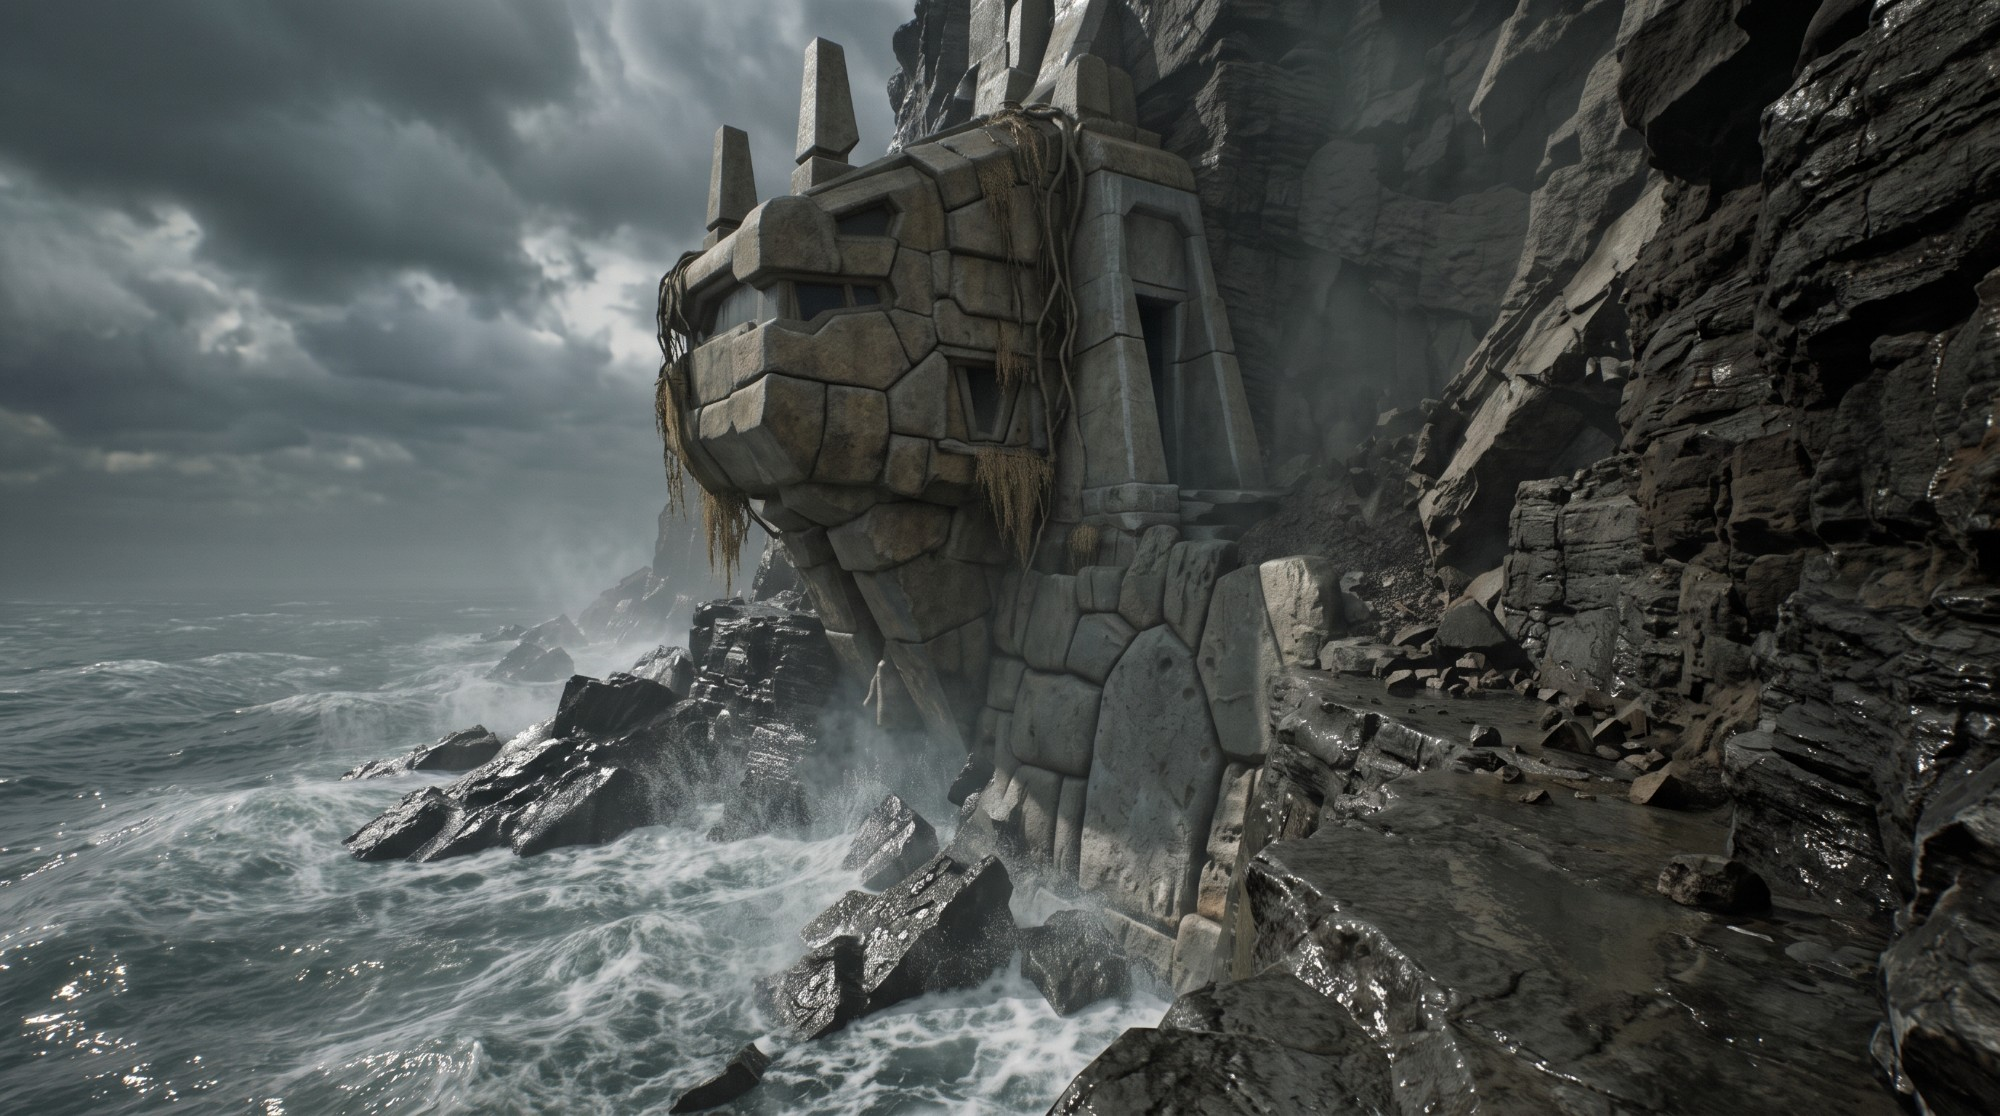
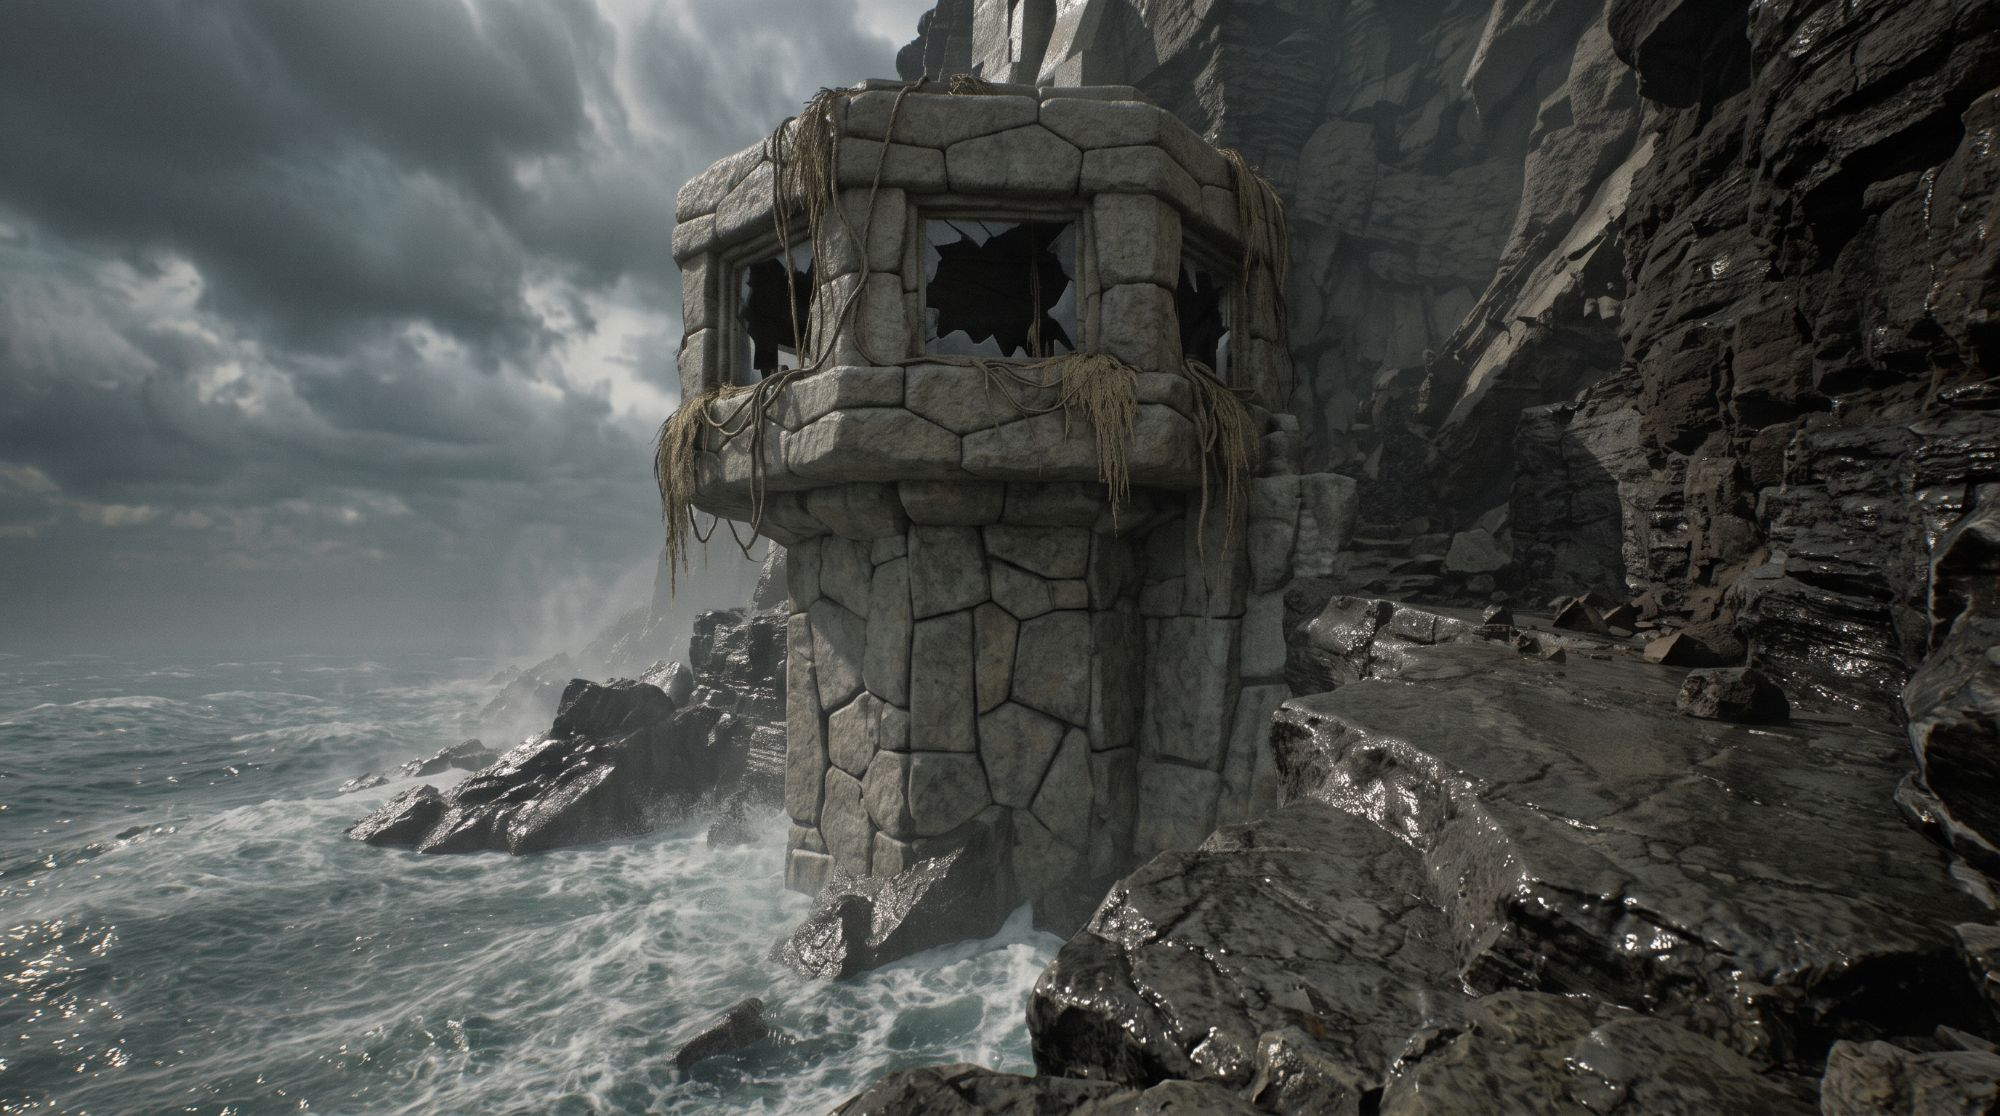
Keep SNARK-9's caption on skip, add his chat history, new Crag and Balcony art
- Space now only stops SNARK-9's voice; his caption stays (and appears
  if he was skipped before his audio started).
- A button on SNARK-9's bar opens his comments as a scrollable chat:
  the player's commands on the right, his quips on the left. Quips are
  added when shown, so lines cut off before being spoken don't appear.
- Balcony art, and a replacement for the Crag.

diff --git a/Sources/Planetfall/SidekickBar.swift b/Sources/Planetfall/SidekickBar.swift
@@ -11,6 +11,8 @@ struct SidekickBar: View {
     /// Big enough to make out SNARK-9's face, like a streamer's facecam.
     static let avatarSize: CGFloat = 80
 
+    @State private var showingChat = false
+
     var body: some View {
         // Centered so the caption sits beside the avatar's face rather than its top edge.
         HStack(alignment: .center, spacing: 16) {
@@ -28,6 +30,19 @@ struct SidekickBar: View {
                     .textSelection(.enabled)
             }
             Spacer(minLength: 0)
+            Button { showingChat.toggle() } label: {
+                Image(systemName: "bubble.left.and.text.bubble.right")
+                    .font(.system(size: 18))
+                    .foregroundStyle(Theme.accent)
+                    .padding(6)
+                    .contentShape(Rectangle())
+            }
+            .buttonStyle(.plain)
+            .help("Show \(sidekick.persona.name)'s earlier comments")
+            .accessibilityLabel("\(sidekick.persona.name)'s comments")
+            .popover(isPresented: $showingChat, arrowEdge: .top) {
+                SidekickChatView(sidekick: sidekick)
+            }
         }
         .padding(.horizontal, 16)
         .padding(.vertical, 12)
@@ -80,5 +95,84 @@ struct SidekickBar: View {
         .animation(sidekick.isThinking ? .easeInOut(duration: 0.6).repeatForever() : .default,
                    value: sidekick.isThinking)
         .accessibilityLabel(sidekick.persona.name)
+    }
+}
+
+/// SNARK-9's earlier comments as a chat: the player's commands on the right, SNARK-9's quips
+/// on the left, oldest at the top. Opens scrolled to the latest.
+struct SidekickChatView: View {
+    let sidekick: Sidekick
+
+    var body: some View {
+        VStack(spacing: 0) {
+            Text(verbatim: "\(sidekick.persona.name)'s commentary")
+                .font(.system(size: 13, weight: .bold, design: .monospaced))
+                .foregroundStyle(Theme.accent)
+                .padding(.vertical, 10)
+            Divider()
+            if sidekick.chat.isEmpty {
+                Text(verbatim: "Nothing yet. Make a move.")
+                    .font(.system(size: 13, design: .monospaced))
+                    .foregroundStyle(Theme.dim)
+                    .frame(maxWidth: .infinity, maxHeight: .infinity)
+            } else {
+                ScrollViewReader { proxy in
+                    ScrollView {
+                        LazyVStack(spacing: 10) {
+                            ForEach(sidekick.chat) { entry in
+                                ChatBubble(entry: entry, avatar: Artwork.character(sidekick.persona.artID))
+                                    .id(entry.id)
+                            }
+                        }
+                        .padding(14)
+                    }
+                    .defaultScrollAnchor(.bottom)
+                    .onAppear { proxy.scrollTo(sidekick.chat.last?.id, anchor: .bottom) }
+                    .onChange(of: sidekick.chat.last?.id) { _, last in
+                        withAnimation { proxy.scrollTo(last, anchor: .bottom) }
+                    }
+                }
+            }
+        }
+        .frame(width: 440, height: 520)
+        .background(Theme.background)
+        .preferredColorScheme(.dark)
+    }
+}
+
+private struct ChatBubble: View {
+    let entry: SidekickChatEntry
+    let avatar: NSImage?
+
+    var body: some View {
+        HStack(alignment: .bottom, spacing: 8) {
+            if entry.speaker == .player {
+                Spacer(minLength: 60)
+                bubble
+            } else {
+                Group {
+                    if let avatar {
+                        Image(nsImage: avatar).resizable().aspectRatio(contentMode: .fill)
+                    } else {
+                        Theme.accent
+                    }
+                }
+                .frame(width: 26, height: 26)
+                .clipShape(Circle())
+                bubble
+                Spacer(minLength: 60)
+            }
+        }
+    }
+
+    private var bubble: some View {
+        Text(verbatim: entry.speaker == .player ? "> \(entry.text)" : entry.text)
+            .font(.system(size: 13, design: .monospaced))
+            .foregroundStyle(entry.speaker == .player ? Theme.background : Theme.text)
+            .textSelection(.enabled)
+            .padding(.horizontal, 12)
+            .padding(.vertical, 8)
+            .background(RoundedRectangle(cornerRadius: 12)
+                .fill(entry.speaker == .player ? Theme.accent : Color.white.opacity(0.08)))
     }
 }

diff --git a/Sources/PlanetfallEngine/Sidekick.swift b/Sources/PlanetfallEngine/Sidekick.swift
@@ -1,6 +1,14 @@
 import Foundation
 import Observation
 
+/// One line in the chat history: something the player typed, or something SNARK-9 said.
+public struct SidekickChatEntry: Identifiable, Equatable, Sendable {
+    public enum Speaker: Sendable { case player, sidekick }
+    public let id: Int
+    public let speaker: Speaker
+    public let text: String
+}
+
 /// The let's-play sidekick: watches the game and streams a quip from Claude after the
 /// player's turns. Observe `line` for the caption; add a handler with `onLineFinished` to
 /// speak it (e.g. Fish TTS in the sidekick's own voice).
@@ -11,6 +19,9 @@ public final class Sidekick {
     /// The caption: the quip being spoken (or, with no voice, as it streams in). Blank while
     /// SNARK-9 is waiting, thinking, or passing, and from the moment the player sends a command.
     public private(set) var line = ""
+    /// The game so far as a chat: the player's commands and SNARK-9's quips, oldest first.
+    /// Quips are added when they're shown, so ones cut off before being spoken don't appear.
+    public private(set) var chat: [SidekickChatEntry] = []
     /// True while Claude is writing a quip.
     public private(set) var isThinking = false
     /// The last error, shown in place of a quip; cleared by the next successful one.
@@ -44,6 +55,7 @@ public final class Sidekick {
     /// Achievements earned since the last quip was requested, to be awarded in the next one.
     @ObservationIgnored private var pendingAwards: [Achievement] = []
     @ObservationIgnored private var finishedHandlers: [(String) -> Void] = []
+    @ObservationIgnored private var nextChatID = 0
 
     private static let enabledKey = "sidekickEnabled"
     private static let maxPreviousLines = 8
@@ -68,10 +80,11 @@ public final class Sidekick {
                 // Skip mid-command questions like the save filename prompt.
                 guard turn.prompt == .command else { return }
                 self.turnFinished()
-            case .command:
+            case .command(let command):
                 // The player moved on: drop any quip in progress and clear the caption.
                 self.cancel(keepingAwards: true)
                 self.line = ""
+                self.addToChat(.player, command)
             case .ended:
                 self.cancel(keepingAwards: false)
                 self.line = ""
@@ -88,13 +101,15 @@ public final class Sidekick {
     public func revealCaption() {
         guard let pendingCaption else { return }
         line = pendingCaption
+        addToChat(.sidekick, pendingCaption)
         self.pendingCaption = nil
     }
 
-    /// Hides the caption (the player skipped SNARK-9's line).
-    public func dismissCaption() {
-        line = ""
-        pendingCaption = nil
+    private func addToChat(_ speaker: SidekickChatEntry.Speaker, _ text: String) {
+        let text = text.trimmingCharacters(in: .whitespacesAndNewlines)
+        guard !text.isEmpty else { return }
+        chat.append(SidekickChatEntry(id: nextChatID, speaker: speaker, text: text))
+        nextChatID += 1
     }
 
     private func turnFinished() {
@@ -161,6 +176,7 @@ public final class Sidekick {
                 pendingCaption = caption
             } else {
                 line = caption
+                addToChat(.sidekick, caption)
             }
             for handler in finishedHandlers { handler(text) }
         }
@@ -180,5 +196,6 @@ public final class Sidekick {
         line = ""
         errorMessage = nil
         previousLines = []
+        chat = []
     }
 }

diff --git a/Sources/Planetfall/VoiceDirector.swift b/Sources/Planetfall/VoiceDirector.swift
@@ -186,7 +186,9 @@ final class VoiceDirector {
             skippedID = id
             current?.cancel()
         }
-        if roles[id] == .sidekick { sidekick?.dismissCaption() }
+        // Skipping SNARK-9 only stops his voice; his caption stays (or appears, if he was
+        // skipped before his audio started).
+        if roles[id] == .sidekick { sidekick?.revealCaption() }
         return true
     }
 
@@ -195,7 +197,11 @@ final class VoiceDirector {
         Task { [weak self] in
             let deadline = ContinuousClock.now + .seconds(60)
             while ContinuousClock.now < deadline {
-                guard let self, self.generation == generation, self.skippedID != id else { return }
+                guard let self, self.generation == generation else { return }
+                if self.skippedID == id {
+                    self.sidekick?.revealCaption()
+                    return
+                }
                 if let audible = self.player.audibleSegment, audible >= id {
                     if audible == id { self.sidekick?.revealCaption() }
                     return

diff --git a/Tests/PlanetfallEngineTests/SidekickTimingTests.swift b/Tests/PlanetfallEngineTests/SidekickTimingTests.swift
@@ -64,6 +64,9 @@ struct SidekickTimingTests {
         try await Task.sleep(for: .milliseconds(900))
         #expect(stub.requestCount == 2)
         #expect(sidekick.line.isEmpty)  // SNARK-9 passed, so the caption stays blank
+        // The chat has both commands but only the quip SNARK-9 actually said.
+        #expect(sidekick.chat.map(\.speaker) == [.player, .sidekick, .player])
+        #expect(sidekick.chat.map(\.text) == ["wait", "Riveting.", "wait"])
     }
 
     @Test func withAVoiceTheCaptionWaitsForSpeechAndTheRequestWaitsForNarration() async throws {
@@ -88,7 +91,9 @@ struct SidekickTimingTests {
         #expect(stub.requestCount == 1)
         #expect(spoken == ["[deadpan] Riveting."])  // the voice gets the tag
         #expect(sidekick.line.isEmpty)  // but the caption waits for the voice to start
+        #expect(sidekick.chat.map(\.text) == ["wait"])  // and so does its place in the chat
         sidekick.revealCaption()
         #expect(sidekick.line == "Riveting.")
+        #expect(sidekick.chat.map(\.text) == ["wait", "Riveting."])
     }
 }

diff --git a/README.md b/README.md
@@ -156,7 +156,7 @@ Scripts are in [Sources/PlanetfallEngine/Cheat.swift](Sources/PlanetfallEngine/C
 
 ## Skipping a speaker
 
-Press **space** on an empty command line to skip whoever is talking. Skip the narrator and SNARK-9 speaks next; skip SNARK-9 and his caption clears. Sound effects can be skipped the same way. When nobody is talking, space just types a space.
+Press **space** on an empty command line to skip whoever is talking. Skip the narrator and SNARK-9 speaks next; skip SNARK-9 and his voice stops, but his caption stays. Sound effects can be skipped the same way. When nobody is talking, space just types a space.
 
 ## Achievements
 
@@ -317,6 +317,8 @@ To use a voice, add `FISH_VOICE_SIDEKICK=<id>` or `FISH_VOICE_NARRATOR=<id>` to 
 - **Caption:** the bar is blank unless SNARK-9 is speaking. It clears the moment you send a command, stays blank while SNARK-9 thinks or passes, and shows the quip when its voice starts (or as it's written, with SNARK-9's voice off).
 - **Cost:** each commented turn sends about 1–3K input tokens, roughly a cent or two per turn.
 - **Live test:** run it against the real API with `ANTHROPIC_LIVE_TESTS=1 swift test --filter commentsOnARealTurn`.
+
+- **Chat history:** the speech-bubble button on SNARK-9's bar shows the game so far as a chat, with your commands on the right and SNARK-9's quips on the left.
 
 **For voice:** `sidekick.onLineFinished { line in … }` delivers each finished quip, ready to speak in SNARK-9's own Fish voice. `sidekick.line` updates as the text streams, if you'd rather start speaking sooner.
 
